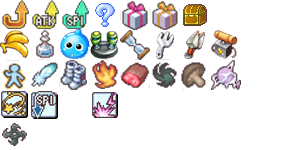
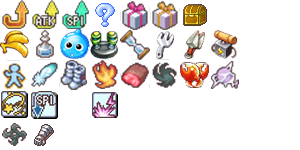
增加了熊猫形态时的图标显示，增加了变身时闪烁

Changed region(s): [[0.6, 0.4, 0.81, 0.6133], [0.09, 0.8267, 0.18, 0.9867]]

diff --git a/BomberManOnline/Game.cpp b/BomberManOnline/Game.cpp
@@ -153,7 +153,7 @@ void CGame::Render(ID2D1HwndRenderTarget* render_target)
 			swprintf_s(buf, L"Q");
 		RenderText(render_target, buf, now_left+7, ICON_TOP+5,
 			p_res_manager->p_corner_number_format, black_brush);
-		
+
 		int now_item = int(player[my_player].PeekItem(i).first);
 		if(now_item != int(Item::NONE))
 		{
@@ -163,12 +163,16 @@ void CGame::Render(ID2D1HwndRenderTarget* render_target)
 				0.6*target_width/ITEM_WIDTH, 0.6*target_height/ITEM_HEIGHT);
 
 			int now_amount = player[my_player].PeekItem(i).second;
-			if(now_amount >= 1)
+			if(now_amount >= 1 && now_amount <= 10000)
 			{
 				swprintf_s(buf, L"x %d", now_amount);
-				RenderText(render_target, buf, now_left + target_width -10, ICON_TOP + target_height-5,
-					p_res_manager->p_corner_number_format, black_brush);
 			}
+			else
+			{
+				memset(buf,0,sizeof(buf));
+			}
+			RenderText(render_target, buf, now_left + target_width -10, ICON_TOP + target_height-5,
+				p_res_manager->p_corner_number_format, black_brush);
 		}
 		now_left += target_width + offset;
 		if(i==MAX_ITEMS)
@@ -304,10 +308,29 @@ void CGame::Render(ID2D1HwndRenderTarget* render_target)
 		else if(now.type == RenderType::PLAYER)
 		{
 			int now_i = now.index;
-			p_res_manager->player_sprite[now_i].DrawImage(render_target,
-				now.pos.x, now.pos.y,
-				SPRITE_WIDTH, SPRITE_HEIGHT, 
-				SPRITE_WIDTH * player[now_i].NowFrame(), SPRITE_HEIGHT * player[now_i].Facing());
+			PLAYER_TRANSFORM now_trans = player[now_i].Trans();
+			if(now_trans == PLAYER_TRANSFORM::NONE)
+			{
+				p_res_manager->player_sprite[now_i].DrawImage(render_target,
+					now.pos.x, now.pos.y,
+					SPRITE_WIDTH, SPRITE_HEIGHT, 
+					SPRITE_WIDTH * player[now_i].NowFrame(), SPRITE_HEIGHT * player[now_i].Facing());
+			}
+			else if(now_trans == PLAYER_TRANSFORM::TRANS_START || now_trans == PLAYER_TRANSFORM::TRANS_END)
+			{
+				p_res_manager->player_sprite[now_i].DrawImage(render_target,
+					now.pos.x, now.pos.y,
+					SPRITE_WIDTH, SPRITE_HEIGHT, 
+					SPRITE_WIDTH * player[now_i].NowFrame(), SPRITE_HEIGHT * player[now_i].Facing(),
+					1, 1, (sin(player[now_i].TransTime()/50)+1)/2);
+			}
+			else
+			{
+				p_res_manager->player_sprite[now_i].DrawImage(render_target,
+					now.pos.x, now.pos.y,
+					SPRITE_WIDTH, SPRITE_HEIGHT, 
+					SPRITE_WIDTH * player[now_i].NowFrame(), SPRITE_HEIGHT * player[now_i].Facing());
+			}
 		}
 	}
 
@@ -651,6 +674,26 @@ GameState CGame::Update(float game_time)
 int CGame::CalcBombResult()
 {
 	return int(Item::PANDA);
+	/*50% rate of dropping an item*/
+	int r = rand()%100;
+	if(r>=50)
+		return int(Item::NONE);
+	
+	/*40% - 40% - 20% rate of dropping 3 kinds of items*/
+	r = rand()%100;
+	if(r<40)
+	{
+		r = rand()%7;
+	}
+	else if(r<80)
+	{
+		r = 10 + rand()%8;
+	}
+	else
+	{
+		r = 20 + rand()%8;
+	}
+	return r;
 }
 
 void CGame::TouchItem( int num, int item_index )

diff --git a/BomberManOnline/Item.h b/BomberManOnline/Item.h
@@ -5,5 +5,6 @@ enum class Item
 	CAPACITY_UP, POWER_UP, SPEED_UP, RANDOM_EFFECT, COIN_50, COIN_100, COIN_500,
 	BANANA=10, GLUE=11, BOMB_INVIS=12, LASER=13, OXYGEN=14, ESCAPE=15, DART=16, CONTROLLER=17,
 	GHOST=20, FLY=21, QUICK=22, UBW=23, PANDA=24, DEMON=25, CRAB=26, KILLER=27,
-	TRAP_BANANA=30, TRAP_GLUE=31, TRAP_LASER=33
+	TRAP_BANANA=30, TRAP_GLUE=31, TRAP_LASER=33,
+	KICK=41
 };

diff --git a/BomberManOnline/data/map_generator.cpp b/BomberManOnline/data/map_generator.cpp
@@ -9,14 +9,14 @@ int main()
 	freopen("map1.txt","w",stdout);
 	int i;
 	srand(unsigned(time(0)));
-	for(i=1;i<=30;i++)
+	for(i=1;i<=40;i++)
 	{
 		int x=rand()%WIDTH;
 		int y=rand()%HEIGHT;
 		
 		cout<<x<<" "<<y<<" "<<1<<" 0"<<endl;
 	}
-	for(i=1; i<=30; i++)
+	for(i=1; i<=50; i++)
 	{
 		int x=rand()%WIDTH;
 		int y=rand()%HEIGHT;

diff --git a/BomberManOnline/Player.cpp b/BomberManOnline/Player.cpp
@@ -272,6 +272,10 @@ void CPlayer::Update( float game_time )
 				{
 					SetSpecialItem(Item::DART, 9);
 				}
+				else if(target_transform == PLAYER_TRANSFORM::PANDA)
+				{
+					SetSpecialItem(Item::KICK, INF);
+				}
 				SetTrans(target_transform, DEFAULT_TRANSTIME, PLAYER_TRANSFORM::TRANS_END);
 			}
 			else //Trans ends

diff --git a/BomberManOnline/GameMap.cpp b/BomberManOnline/GameMap.cpp
@@ -37,8 +37,8 @@ void CGameMap::Init( int map_number )
 		if(nowx == -1)
 			break;
 		
-		grid[nowy][nowx].first = (MAP_ELEMENTS)type;
-		grid[nowy][nowx].second = index;
+		grid[nowx][nowy].first = (MAP_ELEMENTS)type;
+		grid[nowx][nowy].second = index;
 	}
 }
 

diff --git a/BomberManOnline/stdafx.h b/BomberManOnline/stdafx.h
@@ -22,6 +22,7 @@
 #pragma comment(lib, "winmm.lib")
 
 #define ASSERT(x) {if(!(x)) _asm{int 0x03}}
+const int INF = 1<<30;
 
 const float WINDOW_WIDTH = 1280, WINDOW_HEIGHT = 720;
 const float GRID_WIDTH=30, GRID_HEIGHT=30;
